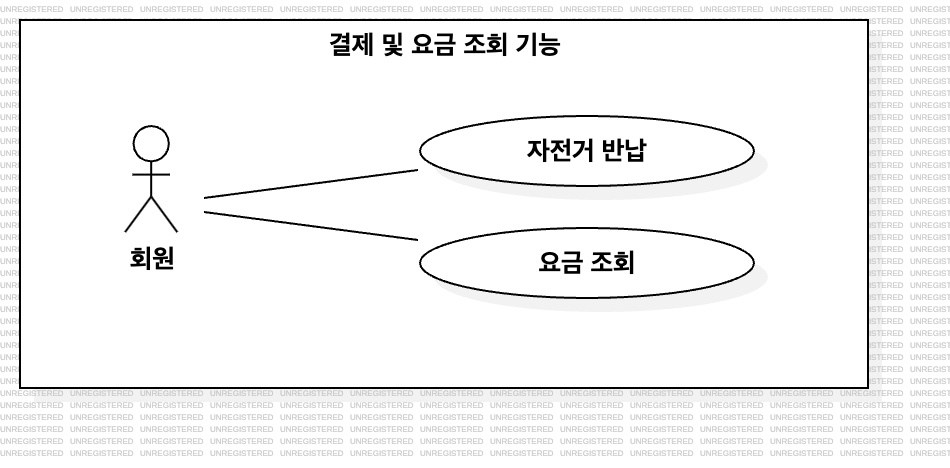
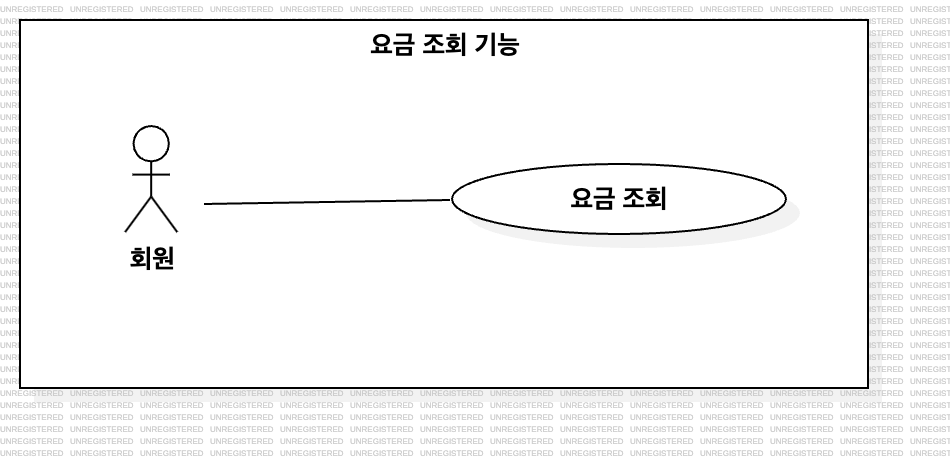
factor : 결제 및 요금 조회 기능 수정, 결제 기능 제거

diff --git a/PeteVoid/petevoid_usecase_description.md b/PeteVoid/petevoid_usecase_description.md
@@ -1,9 +1,3 @@
-[ 결제 기능 UseCase Description ]
-
-| Actor Action                 | System Response                                                     |
-| ---------------------------- | ------------------------------------------------------------------- |
-| 1. 회원이 자전거를 반납한다. | 2. 시스템은 대여 시간을 계산하여 요금을 산정하고 자동으로 결제한다. |
-
 [ 요금 조회 기능 UseCase Description ]
 
 | Actor Action                         | System Response                                                |

diff --git a/PeteVoid/petevoid_requirement_list.md b/PeteVoid/petevoid_requirement_list.md
@@ -1,4 +1,3 @@
 | No. | Requirement                                                           | Use Case(s) |
 | --- | --------------------------------------------------------------------- | ----------- |
-| 9   | 회원이 자전거 반납 시 사용 시간에 따라 요금이 자동 결제된다.          | 자전거 반납 |
 | 10  | 회원은 요금 조회 화면을 통해 대여 시간 및 결제 금액을 확인할 수 있다. | 요금 조회   |
